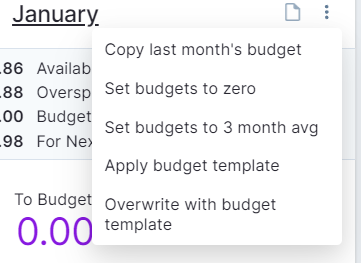
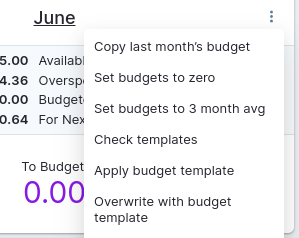
check template blurb (#181)

diff --git a/docs/experimental/goal-templates.md b/docs/experimental/goal-templates.md
@@ -132,9 +132,11 @@ All the examples below use the case of $100 leftover when the remainder pass is 
 
 ## Apply the templates
 
-To apply the goal templates you create, enable the feature in the Settings experimental section. When the feature is on, two new options will appear in the monthly budget actions list.
+To apply the goal templates you create, enable the feature in the Settings experimental section. When the feature is on, three new options will appear in the monthly budget actions list.
 
 ![](/img/goal-template/goal-template-2.png)
+
+**Check templates** will test all template lines for proper syntax.
 
 **Apply budget template** will only fill empty cells using the templates.
 
